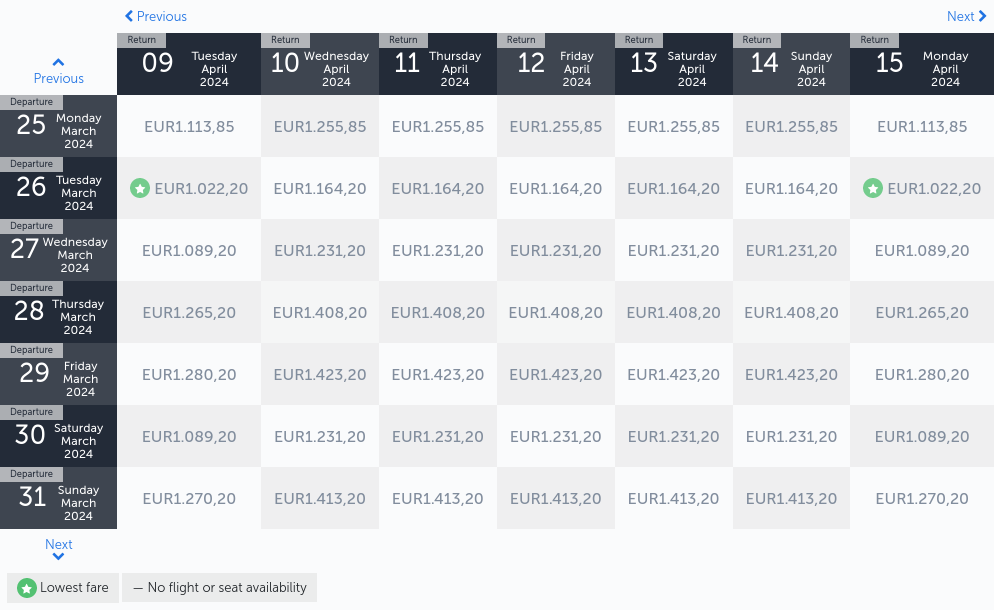
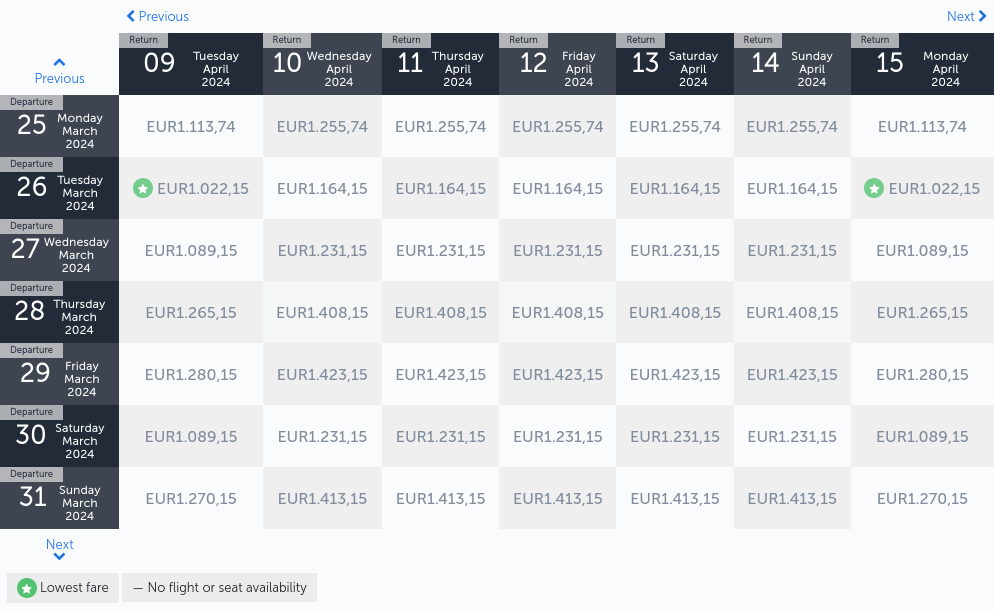
Latest scraping taiwan: Wed Jun 28 22:39:41 UTC 2023

diff --git a/scrapes/taiwan/turkish-airlines.md b/scrapes/taiwan/turkish-airlines.md
@@ -2,13 +2,13 @@
 | --- | --- |     |     |     |     |     |     | --- | --- | --- | --- | --- | --- |
 | Previous | Return<br><br>09 Tuesday April 2024 | Return<br><br>10 Wednesday April 2024 | Return<br><br>11 Thursday April 2024 | Return<br><br>12 Friday April 2024 | Return<br><br>13 Saturday April 2024 | Return<br><br>14 Sunday April 2024 | Return<br><br>15 Monday April 2024 |
 | --- | --- | --- | --- | --- | --- | --- | --- |
-| Departure<br><br>25 Monday March 2024 | 1.113,85 | 1.255,85 | 1.255,85 | 1.255,85 | 1.255,85 | 1.255,85 | 1.113,85 |
-| Departure<br><br>26 Tuesday March 2024 | 1.022,20 | 1.164,20 | 1.164,20 | 1.164,20 | 1.164,20 | 1.164,20 | 1.022,20 |
-| Departure<br><br>27 Wednesday March 2024 | 1.089,20 | 1.231,20 | 1.231,20 | 1.231,20 | 1.231,20 | 1.231,20 | 1.089,20 |
-| Departure<br><br>28 Thursday March 2024 | 1.265,20 | 1.408,20 | 1.408,20 | 1.408,20 | 1.408,20 | 1.408,20 | 1.265,20 |
-| Departure<br><br>29 Friday March 2024 | 1.280,20 | 1.423,20 | 1.423,20 | 1.423,20 | 1.423,20 | 1.423,20 | 1.280,20 |
-| Departure<br><br>30 Saturday March 2024 | 1.089,20 | 1.231,20 | 1.231,20 | 1.231,20 | 1.231,20 | 1.231,20 | 1.089,20 |
-| Departure<br><br>31 Sunday March 2024 | 1.270,20 | 1.413,20 | 1.413,20 | 1.413,20 | 1.413,20 | 1.413,20 | 1.270,20 |
+| Departure<br><br>25 Monday March 2024 | 1.113,74 | 1.255,74 | 1.255,74 | 1.255,74 | 1.255,74 | 1.255,74 | 1.113,74 |
+| Departure<br><br>26 Tuesday March 2024 | 1.022,15 | 1.164,15 | 1.164,15 | 1.164,15 | 1.164,15 | 1.164,15 | 1.022,15 |
+| Departure<br><br>27 Wednesday March 2024 | 1.089,15 | 1.231,15 | 1.231,15 | 1.231,15 | 1.231,15 | 1.231,15 | 1.089,15 |
+| Departure<br><br>28 Thursday March 2024 | 1.265,15 | 1.408,15 | 1.408,15 | 1.408,15 | 1.408,15 | 1.408,15 | 1.265,15 |
+| Departure<br><br>29 Friday March 2024 | 1.280,15 | 1.423,15 | 1.423,15 | 1.423,15 | 1.423,15 | 1.423,15 | 1.280,15 |
+| Departure<br><br>30 Saturday March 2024 | 1.089,15 | 1.231,15 | 1.231,15 | 1.231,15 | 1.231,15 | 1.231,15 | 1.089,15 |
+| Departure<br><br>31 Sunday March 2024 | 1.270,15 | 1.413,15 | 1.413,15 | 1.413,15 | 1.413,15 | 1.413,15 | 1.270,15 |
 | Next |
 | Lowest fare — No flight or seat availability |     |     |     |     |     |     |     |
 
